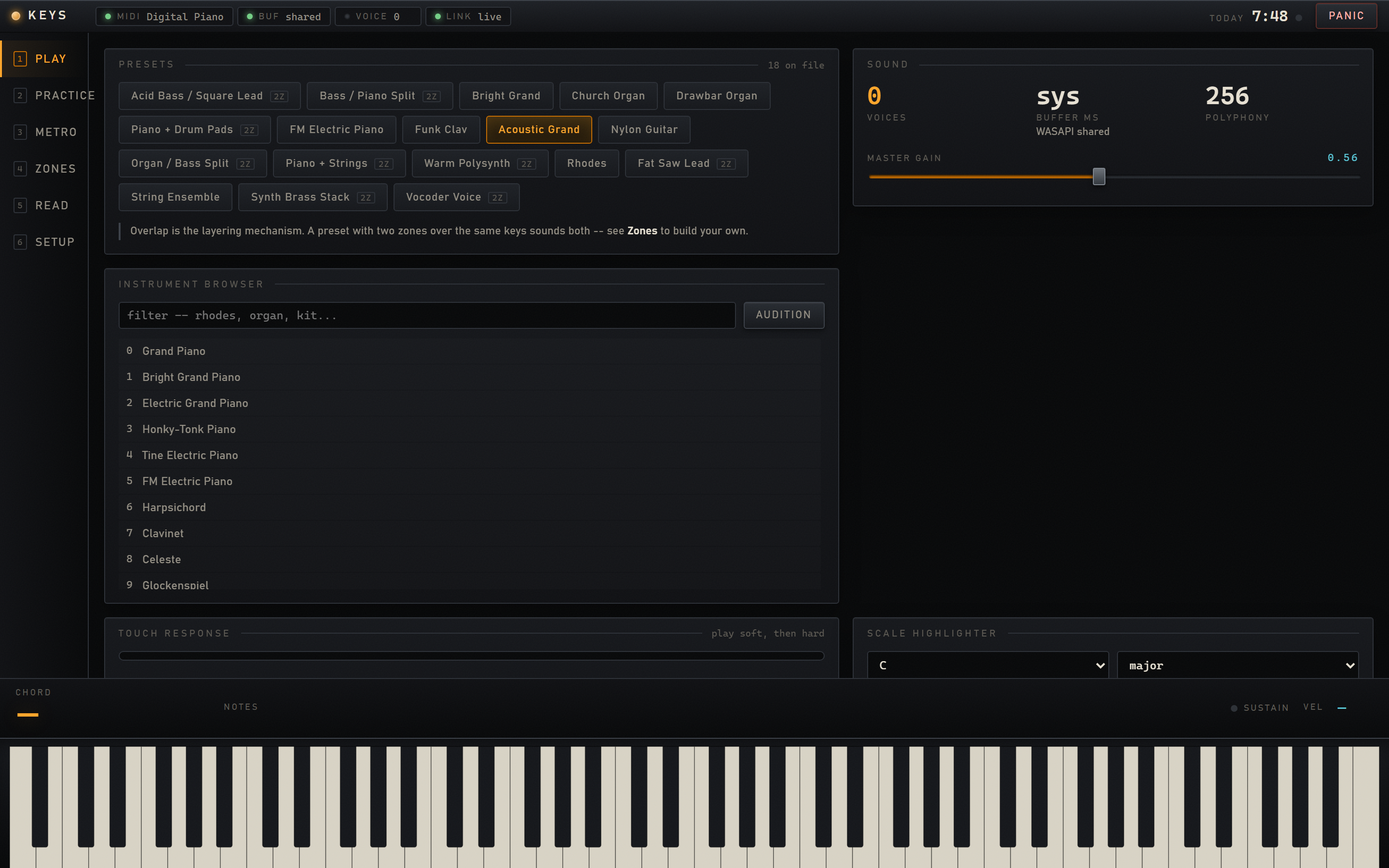
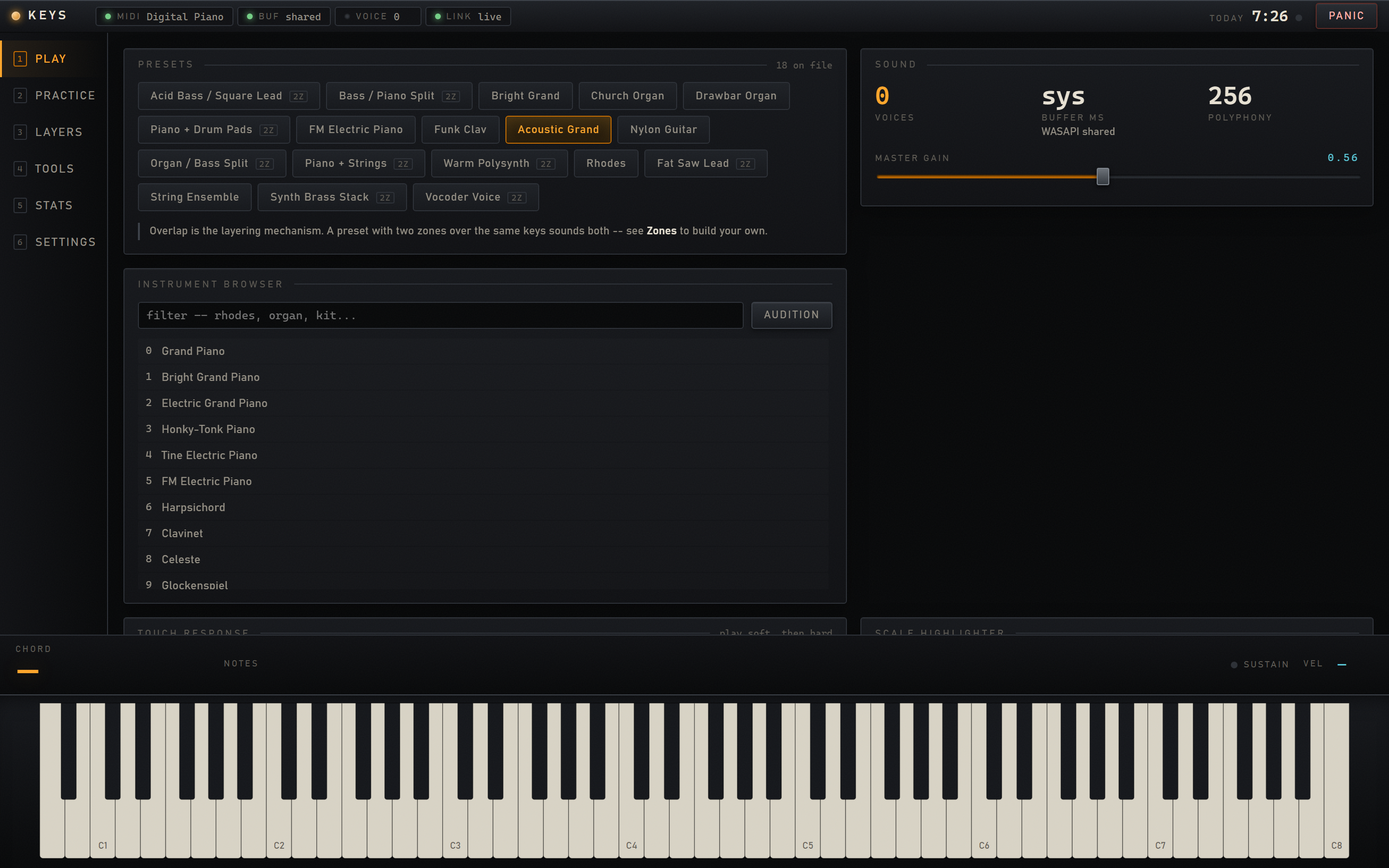
docs(ui): update copy that still named the old tabs
The Presets note pointed at "Zones", the touch-response hint promised velocity
curves "in Zones", and read.js had a panel called "Setup" which now collides with
the Settings tab. Also retitled the zone list to "Zone editor -- the long way",
since the one-click Split and Layer builders are about to sit above it.

diff --git a/frontend/views/play.js b/frontend/views/play.js
@@ -42,7 +42,7 @@ export default {
           (st.presets || []).map((p) => chip(p, eng.preset_id, ctx))),
         h('div.note', { style: { marginTop: '12px' } },
           'Overlap is the layering mechanism. A preset with two zones over the same keys ',
-          'sounds both -- see ', h('strong', null, 'Zones'), ' to build your own.'))),
+          'sounds both -- see ', h('strong', null, 'Layers'), ' to build your own.'))),
 
       h('div.col-5', null, mod('Sound', null,
         h('div.stats', { id: 'play-stats' },
@@ -331,7 +331,7 @@ function paintTouch() {
     note.className = 'note';
     note.replaceChildren(
       h('strong', null, `Touch response is working — ${spread} points of range.`),
-      document.createTextNode(' Velocity curves in Zones will do something now.'));
+      document.createTextNode(' Velocity curves in Layers will do something now.'));
   }
 }
 

diff --git a/frontend/views/layers.js b/frontend/views/layers.js
@@ -34,7 +34,8 @@ export default {
           h('button.btn', { onclick: () => apply(ctx) }, 'Apply'),
           h('button.btn', { onclick: () => saveAs(ctx) }, 'Save as preset...'),
           h('button.btn', { onclick: () => { zones = [blank(0)]; render(ctx); } }, 'Reset')))),
-      h('div.col-12', null, mod('Zones', null, h('div', { id: 'zone-list' }))),
+      h('div.col-12', null, mod('Zone editor', 'the long way',
+        h('div', { id: 'zone-list' }))),
     ));
 
     try {

diff --git a/frontend/views/read.js b/frontend/views/read.js
@@ -49,7 +49,7 @@ export default {
       h('div.col-5', null, mod('This run', null,
         h('div.stats', { id: 'run-stats' }, h('div.empty', null, 'no attempts yet')))),
 
-      h('div.col-7', null, mod('Setup', null,
+      h('div.col-7', null, mod('Exercise setup', null,
         h('div', { style: { display: 'grid', gridTemplateColumns: '1fr 1fr 1fr', gap: '10px' } },
           h('label.field', null,
             h('span.field__label', null, h('span', null, 'Key')),
